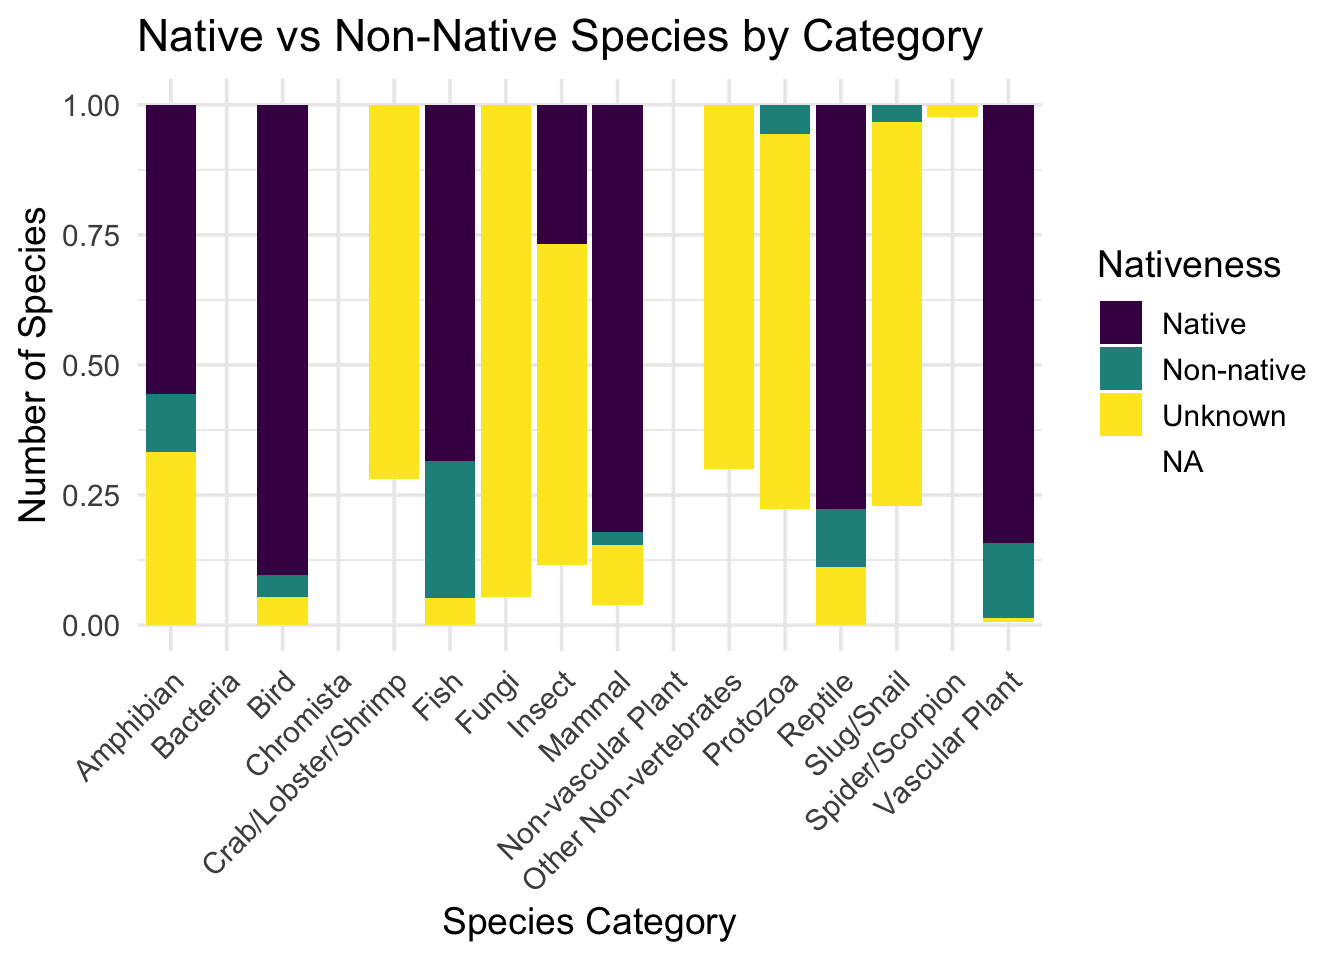
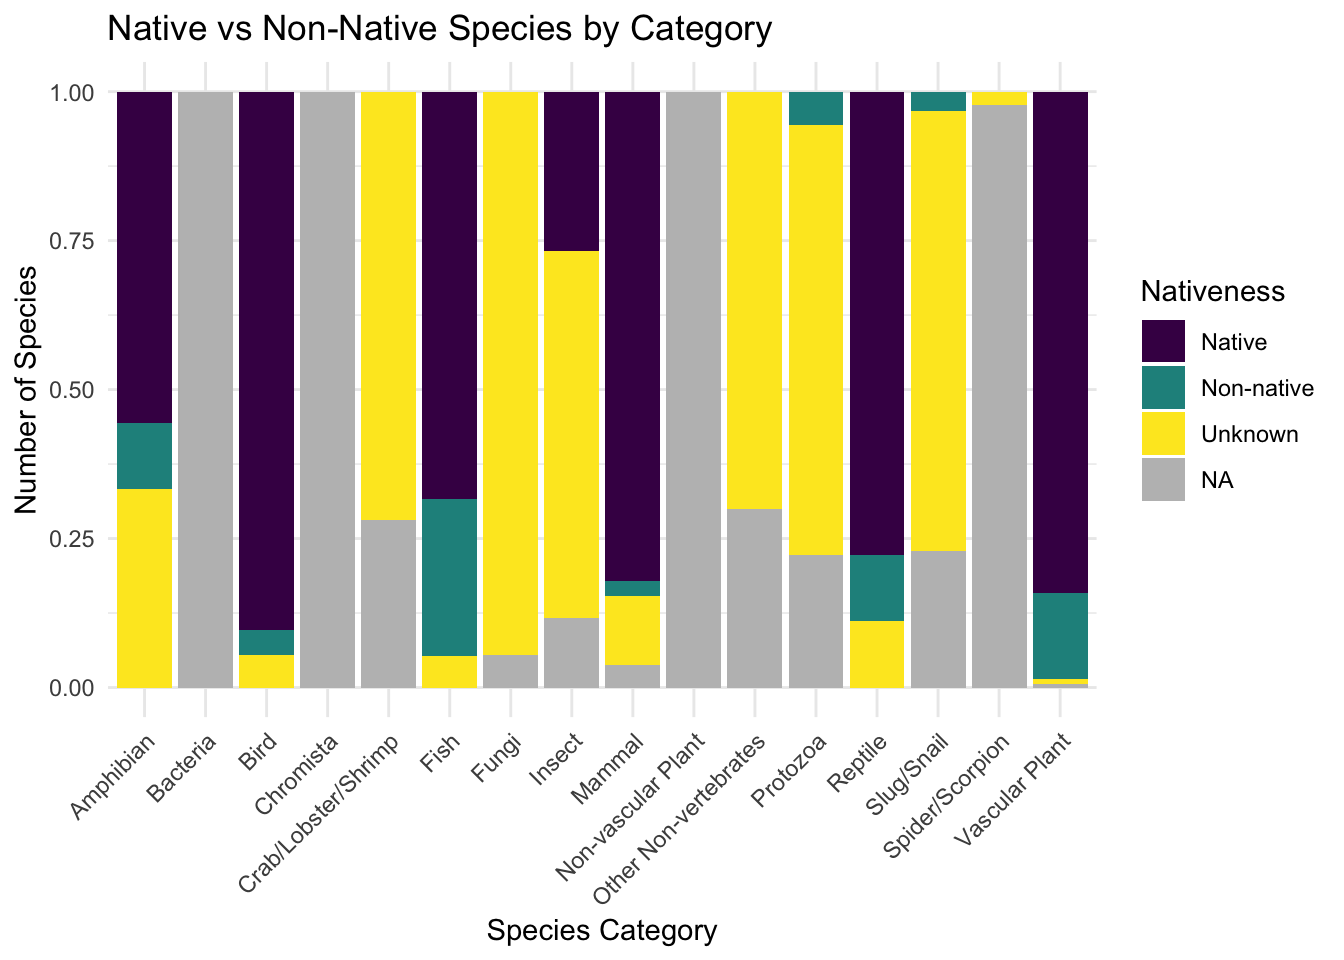
update blog post three

diff --git a/docs/posts/third_blog_post/index.html b/docs/posts/third_blog_post/index.html
@@ -195,11 +195,11 @@ pre > code.sourceCode > span > a:first-child::before { text-decoration: underlin
 
 <section id="introduction" class="level1">
 <h1>Introduction</h1>
-<p>The data used in this analysis contains information on species that have been recorded in Yellowstone National Park. The dataset includes details about different organisms found within the park, it contains 4,179 observations, each corresponding to a species recorded within the park.</p>
+<p>The data used in this analysis contains information on species that have been recorded in Yellowstone National Park. The dataset includes details about different organisms found within the park, it contains 4179 observations, each corresponding to a species recorded within the park.</p>
 <p>The variables I am most interested in are CategoryName, which represents the type of organism, along with Nativeness, which indicates whether a species is native to the region or not. These variables show how biodiversity in Yellowstone is distributed across different types of organisms and whether most species present in the park are native or non-native.</p>
 <p>This leads to my primary question of interest:</p>
 <p><strong>What does the composition of species in Yellowstone National Park reveal about the park’s biodiversity and the presence of native vs non-native species? </strong></p>
-<p>The data was accessed through the TidyTuesday project on a GitHub repository. The original source of the data can be found here: https://irma.nps.gov/NPSpecies/Search/SpeciesList.</p>
+<p>The data was accessed through the TidyTuesday project on a GitHub repository. The original source of the data can be found [here]. (https://irma.nps.gov/NPSpecies/Search/SpeciesList)</p>
 <p>Some additional context about Yellowstone and the National Park system is helpful for interpreting this data. The National Park Service maintains detailed records of species that occur within park boundaries through a combination of field observations, research studies, and verified documentation. These records help scientists and park managers monitor biodiversity and identify potential conservation concerns such as the introduction of non-native species.</p>
 <p>Yellowstone National Park is one of the most biologically diverse parks in the United States, containing a wide range of ecosystems including forests, grasslands, rivers, and geothermal areas. Because of this ecological diversity, the park supports thousands of different species across many groups. Understanding how these species are distributed across categories and whether they are native or non-native provides insight into the overall structure of biodiversity within the park.</p>
 </section>
@@ -230,11 +230,12 @@ pre > code.sourceCode > span > a:first-child::before { text-decoration: underlin
 <span id="cb4-5"><a href="#cb4-5" aria-hidden="true" tabindex="-1"></a>  <span class="fu">geom_segment</span>(<span class="fu">aes</span>(<span class="at">x =</span> CategoryName, <span class="at">xend =</span> CategoryName, <span class="at">y =</span> <span class="dv">0</span>, <span class="at">yend =</span> n),</span>
 <span id="cb4-6"><a href="#cb4-6" aria-hidden="true" tabindex="-1"></a>               <span class="at">color =</span> <span class="st">"darkgreen"</span>) <span class="sc">+</span></span>
 <span id="cb4-7"><a href="#cb4-7" aria-hidden="true" tabindex="-1"></a>  <span class="fu">geom_point</span>(<span class="at">color =</span> <span class="st">"darkgreen"</span>) <span class="sc">+</span></span>
-<span id="cb4-8"><a href="#cb4-8" aria-hidden="true" tabindex="-1"></a>  <span class="fu">coord_flip</span>() <span class="sc">+</span></span>
-<span id="cb4-9"><a href="#cb4-9" aria-hidden="true" tabindex="-1"></a>  <span class="fu">labs</span>(<span class="at">title =</span> <span class="st">"Species Counts by Category in Yellowstone"</span>,</span>
-<span id="cb4-10"><a href="#cb4-10" aria-hidden="true" tabindex="-1"></a>       <span class="at">x =</span> <span class="st">"Species Category"</span>,</span>
-<span id="cb4-11"><a href="#cb4-11" aria-hidden="true" tabindex="-1"></a>       <span class="at">y =</span> <span class="st">"Number of Species"</span>) <span class="sc">+</span></span>
-<span id="cb4-12"><a href="#cb4-12" aria-hidden="true" tabindex="-1"></a>  <span class="fu">theme_minimal</span>()</span></code></pre></div><button title="Copy to Clipboard" class="code-copy-button"><i class="bi"></i></button></div>
+<span id="cb4-8"><a href="#cb4-8" aria-hidden="true" tabindex="-1"></a>  <span class="fu">geom_text</span>(<span class="fu">aes</span>(<span class="at">label =</span> n), <span class="at">hjust =</span> <span class="sc">-</span><span class="fl">0.2</span>, <span class="at">size =</span> <span class="dv">3</span>) <span class="sc">+</span></span>
+<span id="cb4-9"><a href="#cb4-9" aria-hidden="true" tabindex="-1"></a>  <span class="fu">coord_flip</span>() <span class="sc">+</span></span>
+<span id="cb4-10"><a href="#cb4-10" aria-hidden="true" tabindex="-1"></a>  <span class="fu">labs</span>(<span class="at">title =</span> <span class="st">"Species Counts by Category in Yellowstone"</span>,</span>
+<span id="cb4-11"><a href="#cb4-11" aria-hidden="true" tabindex="-1"></a>       <span class="at">x =</span> <span class="st">"Species Category"</span>,</span>
+<span id="cb4-12"><a href="#cb4-12" aria-hidden="true" tabindex="-1"></a>       <span class="at">y =</span> <span class="st">"Number of Species"</span>) <span class="sc">+</span></span>
+<span id="cb4-13"><a href="#cb4-13" aria-hidden="true" tabindex="-1"></a>  <span class="fu">theme_minimal</span>()</span></code></pre></div><button title="Copy to Clipboard" class="code-copy-button"><i class="bi"></i></button></div>
 <div class="cell-output-display">
 <div>
 <figure class="figure">
@@ -243,7 +244,7 @@ pre > code.sourceCode > span > a:first-child::before { text-decoration: underlin
 </div>
 </div>
 </div>
-<p>From the lollipop plot we can see that the majority of species recorded in Yellowstone fall within the insect and vascular plant categories. This makes sense because plants and insects tend to have far more species than larger animals in most ecosystems. The next largest category is birds, while physically larger groups such as mammals, fish, reptiles, and amphibians contain far fewer species.</p>
+<p>From the lollipop plot we can see that the majority of species recorded in Yellowstone fall within the insect and vascular plant categories. This makes sense because plants and insects tend to have far more species than larger organisms in most ecosystems. The next largest category is birds, while physically larger groups such as mammals, fish, reptiles, and amphibians contain far fewer species.</p>
 <p>These patterns reflect how biodiversity is typically structured in nature. Smaller organisms with many ecological niches, like insects and plants, dominate species counts, while larger organisms make up a smaller portion of total biodiversity. Overall, the plot shows that Yellowstone’s biodiversity is largely driven by plant and insect species.</p>
 </section>
 <section id="plot-2-nativeness-of-species-across-categories" class="level2">
@@ -265,8 +266,8 @@ pre > code.sourceCode > span > a:first-child::before { text-decoration: underlin
 </div>
 </div>
 </div>
-<p>The heatmap shows how the nativeness of species varies across different categories. The largest combination is native vascular plants, with roughly 1,200 species. Insects also have a large number of species, although many are classified as unknown, likely because determining the origin of many insect species can be difficult.</p>
-<p>Across most categories, the majority of species appear to be native rather than non-native, suggesting that Yellowstone has maintained much of its natural ecological structure. Some categories contain unknown or NA values, which likely indicates that the nativeness of those species has not yet been classified, this is likely the case for Chromista as they are small aquatic organisms.</p>
+<p>The heatmap shows how the nativeness of species varies across different categories. The largest combination is native vascular plants, with roughly 1200 species. Insects also have a large number of species, although many are classified as unknown, likely because determining the origin of many insect species can be difficult.</p>
+<p>Across most categories, the majority of species appear to be native rather than non-native, suggesting that Yellowstone has maintained much of its natural ecological structure. Some categories contain unknown or NA values, which likely indicates that the nativeness of those species has not yet been classified, this is likely the case for Chromista as they are single celled aquatic organisms.</p>
 <p>Overall, the heatmap suggests that most biodiversity within Yellowstone is composed of native species.</p>
 </section>
 <section id="plot-3-native-vs-non-native-species-by-category" class="level2">
@@ -278,8 +279,8 @@ pre > code.sourceCode > span > a:first-child::before { text-decoration: underlin
 <span id="cb6-4"><a href="#cb6-4" aria-hidden="true" tabindex="-1"></a>      <span class="at">x =</span> <span class="st">"Species Category"</span>,</span>
 <span id="cb6-5"><a href="#cb6-5" aria-hidden="true" tabindex="-1"></a>      <span class="at">y =</span> <span class="st">"Number of Species"</span>,</span>
 <span id="cb6-6"><a href="#cb6-6" aria-hidden="true" tabindex="-1"></a>      <span class="at">fill =</span> <span class="st">"Nativeness"</span>) <span class="sc">+</span></span>
-<span id="cb6-7"><a href="#cb6-7" aria-hidden="true" tabindex="-1"></a>  <span class="fu">scale_fill_viridis_d</span>() <span class="sc">+</span></span>
-<span id="cb6-8"><a href="#cb6-8" aria-hidden="true" tabindex="-1"></a>  <span class="fu">theme_minimal</span>(<span class="at">base_size =</span> <span class="dv">14</span>) <span class="sc">+</span></span>
+<span id="cb6-7"><a href="#cb6-7" aria-hidden="true" tabindex="-1"></a>  <span class="fu">scale_fill_viridis_d</span>(<span class="at">na.value =</span> <span class="st">"gray"</span>) <span class="sc">+</span></span>
+<span id="cb6-8"><a href="#cb6-8" aria-hidden="true" tabindex="-1"></a>  <span class="fu">theme_minimal</span>() <span class="sc">+</span></span>
 <span id="cb6-9"><a href="#cb6-9" aria-hidden="true" tabindex="-1"></a>  <span class="fu">theme</span>(<span class="at">axis.text.x =</span> <span class="fu">element_text</span>(<span class="at">angle =</span> <span class="dv">45</span>, <span class="at">hjust =</span> <span class="dv">1</span>))</span></code></pre></div><button title="Copy to Clipboard" class="code-copy-button"><i class="bi"></i></button></div>
 <div class="cell-output-display">
 <div>
@@ -290,7 +291,7 @@ pre > code.sourceCode > span > a:first-child::before { text-decoration: underlin
 </div>
 </div>
 <p>The stacked bar plot provides a clearer view of the proportion of native versus non-native species within each category. Most categories are dominated by native species, with smaller proportions of non-native or unknown classifications.</p>
-<p>One category that stands out is fish, which appears to have a relatively larger proportion of non-native species. This may be due to the fact in Yellowstone a large number of trout were introduced to support recreational fishing.</p>
+<p>One category that stands out is fish, which appears to have a relatively larger proportion of non-native species. This may be due to the fact that Yellowstone had a large number of trout introduced to support recreational fishing.</p>
 <p>Overall, Yellowstone appears to maintain a strong majority of native species across most organism categories, which is important for preserving the natural balance of the park’s ecosystem.</p>
 </section>
 </section>
@@ -302,9 +303,9 @@ pre > code.sourceCode > span > a:first-child::before { text-decoration: underlin
 </section>
 <section id="connection-to-class-ideas" class="level1">
 <h1>Connection to Class Ideas</h1>
-<p>The first visualization uses a lollipop chart to display the number of species within each category. Because the goal was to compare counts across several categories, the lollipop plot effectively highlights differences while keeping the visualization simple and uncluttered.</p>
+<p>The first visualization uses a lollipop chart to display the number of species within each category, as well as labeling the count for each category. Because the goal was to compare counts across several categories, the lollipop plot effectively highlights differences while keeping the visualization simple and uncluttered.</p>
 <p>The second visualization uses a heatmap to examine the relationship between two categorical variables. Heatmaps are useful for identifying patterns across combinations of categories and allow viewers to quickly see where native, non-native, or unknown species are most common.</p>
-<p>The third visualization uses a stacked proportional bar chart to show the composition of native versus non-native species within each category. Using proportions instead of raw counts makes it easier to compare categories that contain very different numbers of species.</p>
+<p>The third visualization uses a stacked proportional bar chart to show the composition of native versus non-native species within each category. Using proportions instead of raw counts makes it easier to compare categories that contain very different numbers of species. I kept NA in the second and third plots because they often appear in physically smaller categories, where the origin of the species may be more difficult to determine or where less research has been conducted.</p>
 <p>Overall, these visualizations were intentionally designed to be simple and uncluttered to communicate patterns in the data. The goal was to present the information in a way that allows viewers to quickly interpret how biodiversity in Yellowstone is distributed across species categories and nativeness.</p>
 
 

diff --git a/docs/index.html b/docs/index.html
@@ -209,7 +209,7 @@ window.Quarto = {
 
 <div class="quarto-listing quarto-listing-container-default" id="listing-listing">
 <div class="list quarto-listing-default">
-<div class="quarto-post image-right" data-index="0" data-categories="YW5hbHlzaXM=" data-listing-date-sort="1773115200000" data-listing-file-modified-sort="1773192509601" data-listing-date-modified-sort="NaN" data-listing-reading-time-sort="7" data-listing-word-count-sort="1239">
+<div class="quarto-post image-right" data-index="0" data-categories="YW5hbHlzaXM=" data-listing-date-sort="1773115200000" data-listing-file-modified-sort="1773233292382" data-listing-date-modified-sort="NaN" data-listing-reading-time-sort="7" data-listing-word-count-sort="1296">
 <div class="thumbnail"><a href="./posts/third_blog_post/index.html" class="no-external">
 
 <p class="card-img-top"><img src="posts/third_blog_post/index_files/figure-html/unnamed-chunk-4-1.png"  class="thumbnail-image card-img"/></p>
